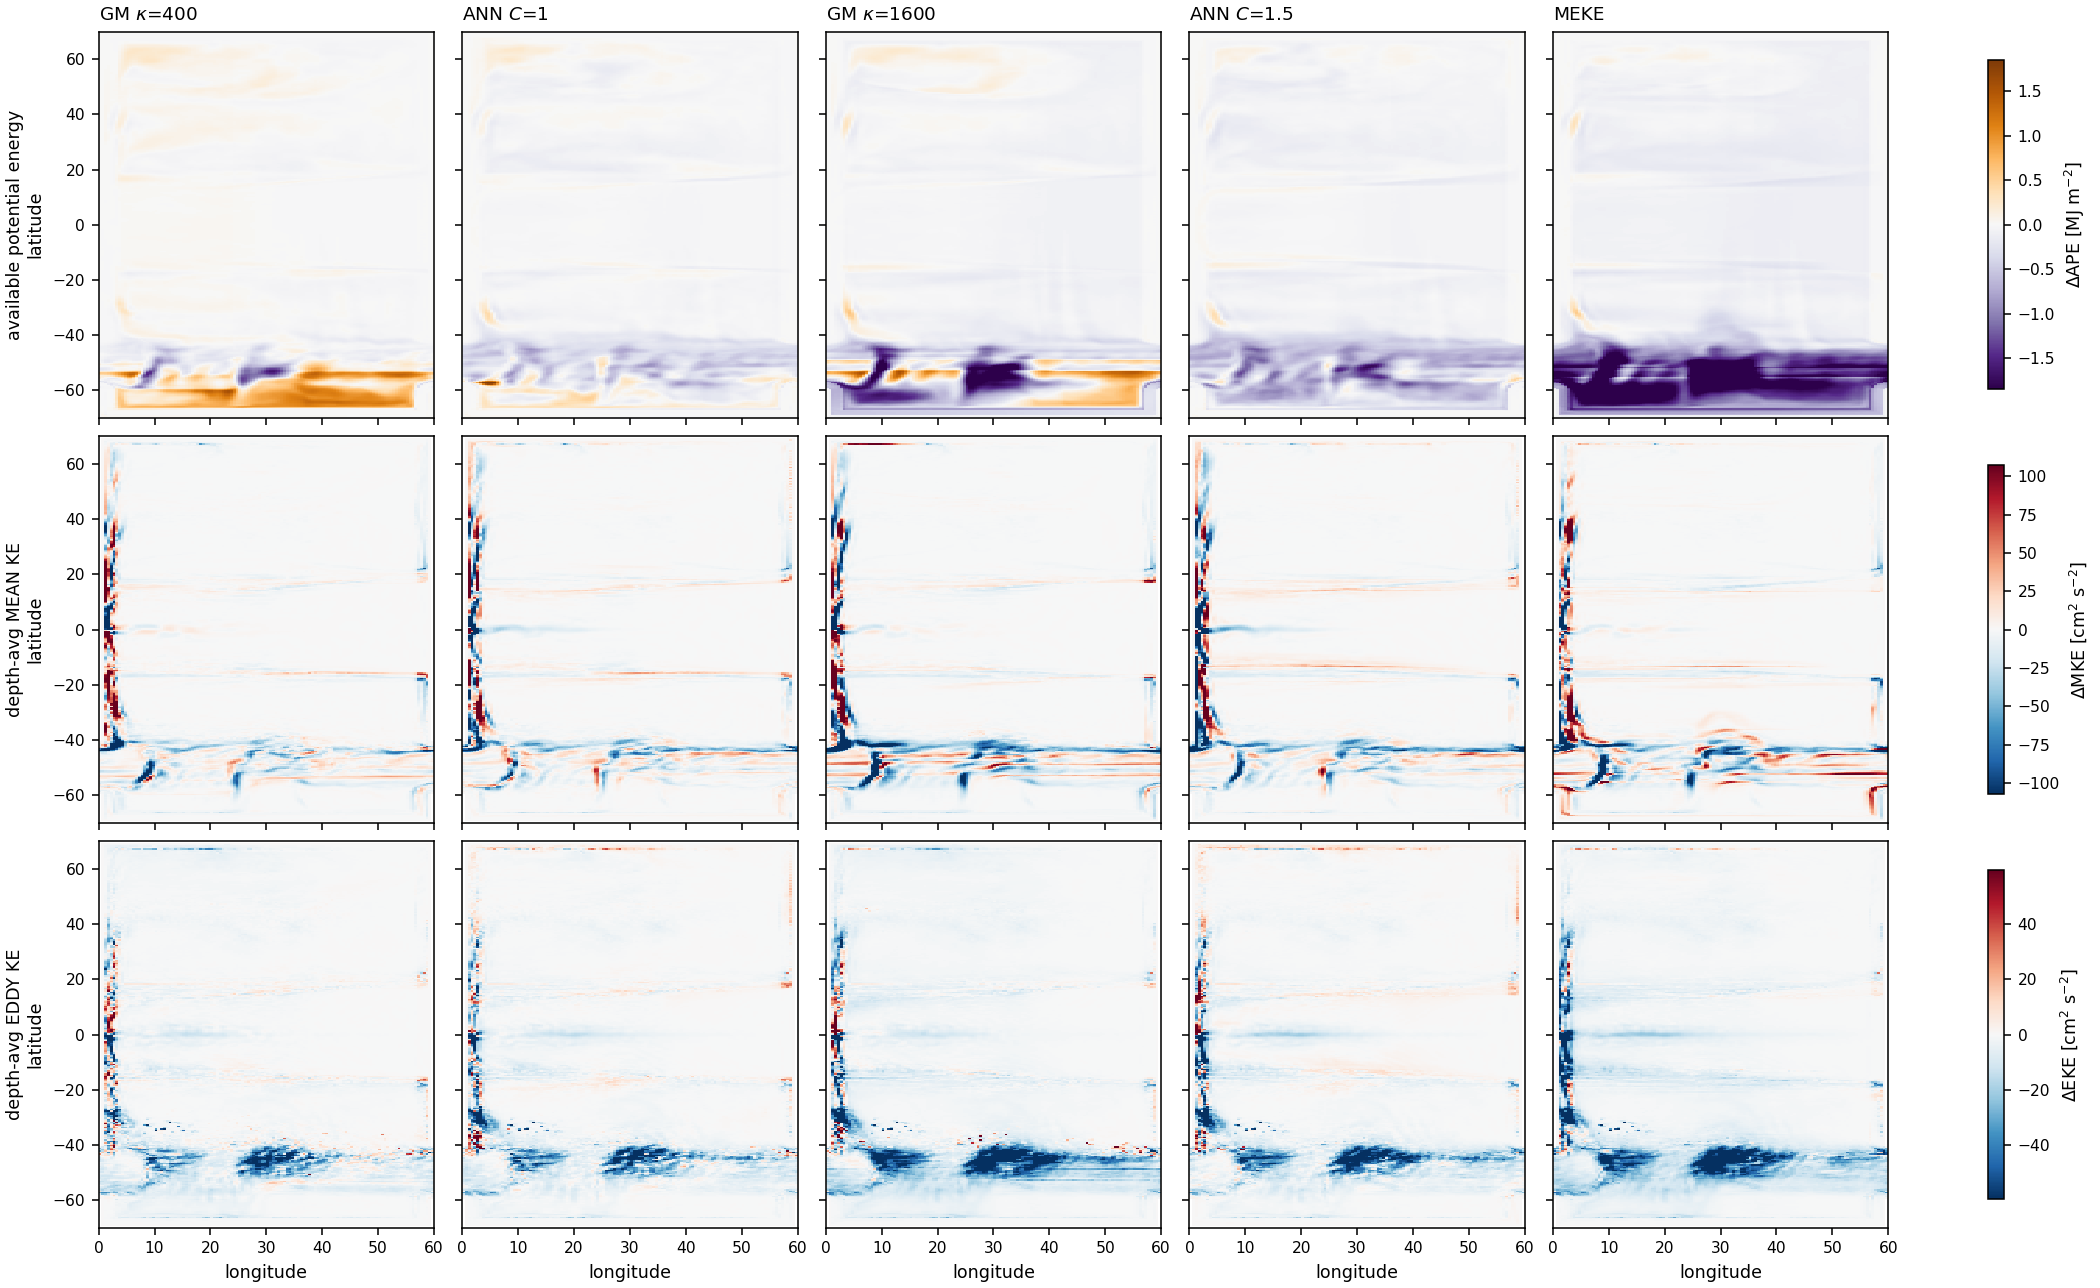
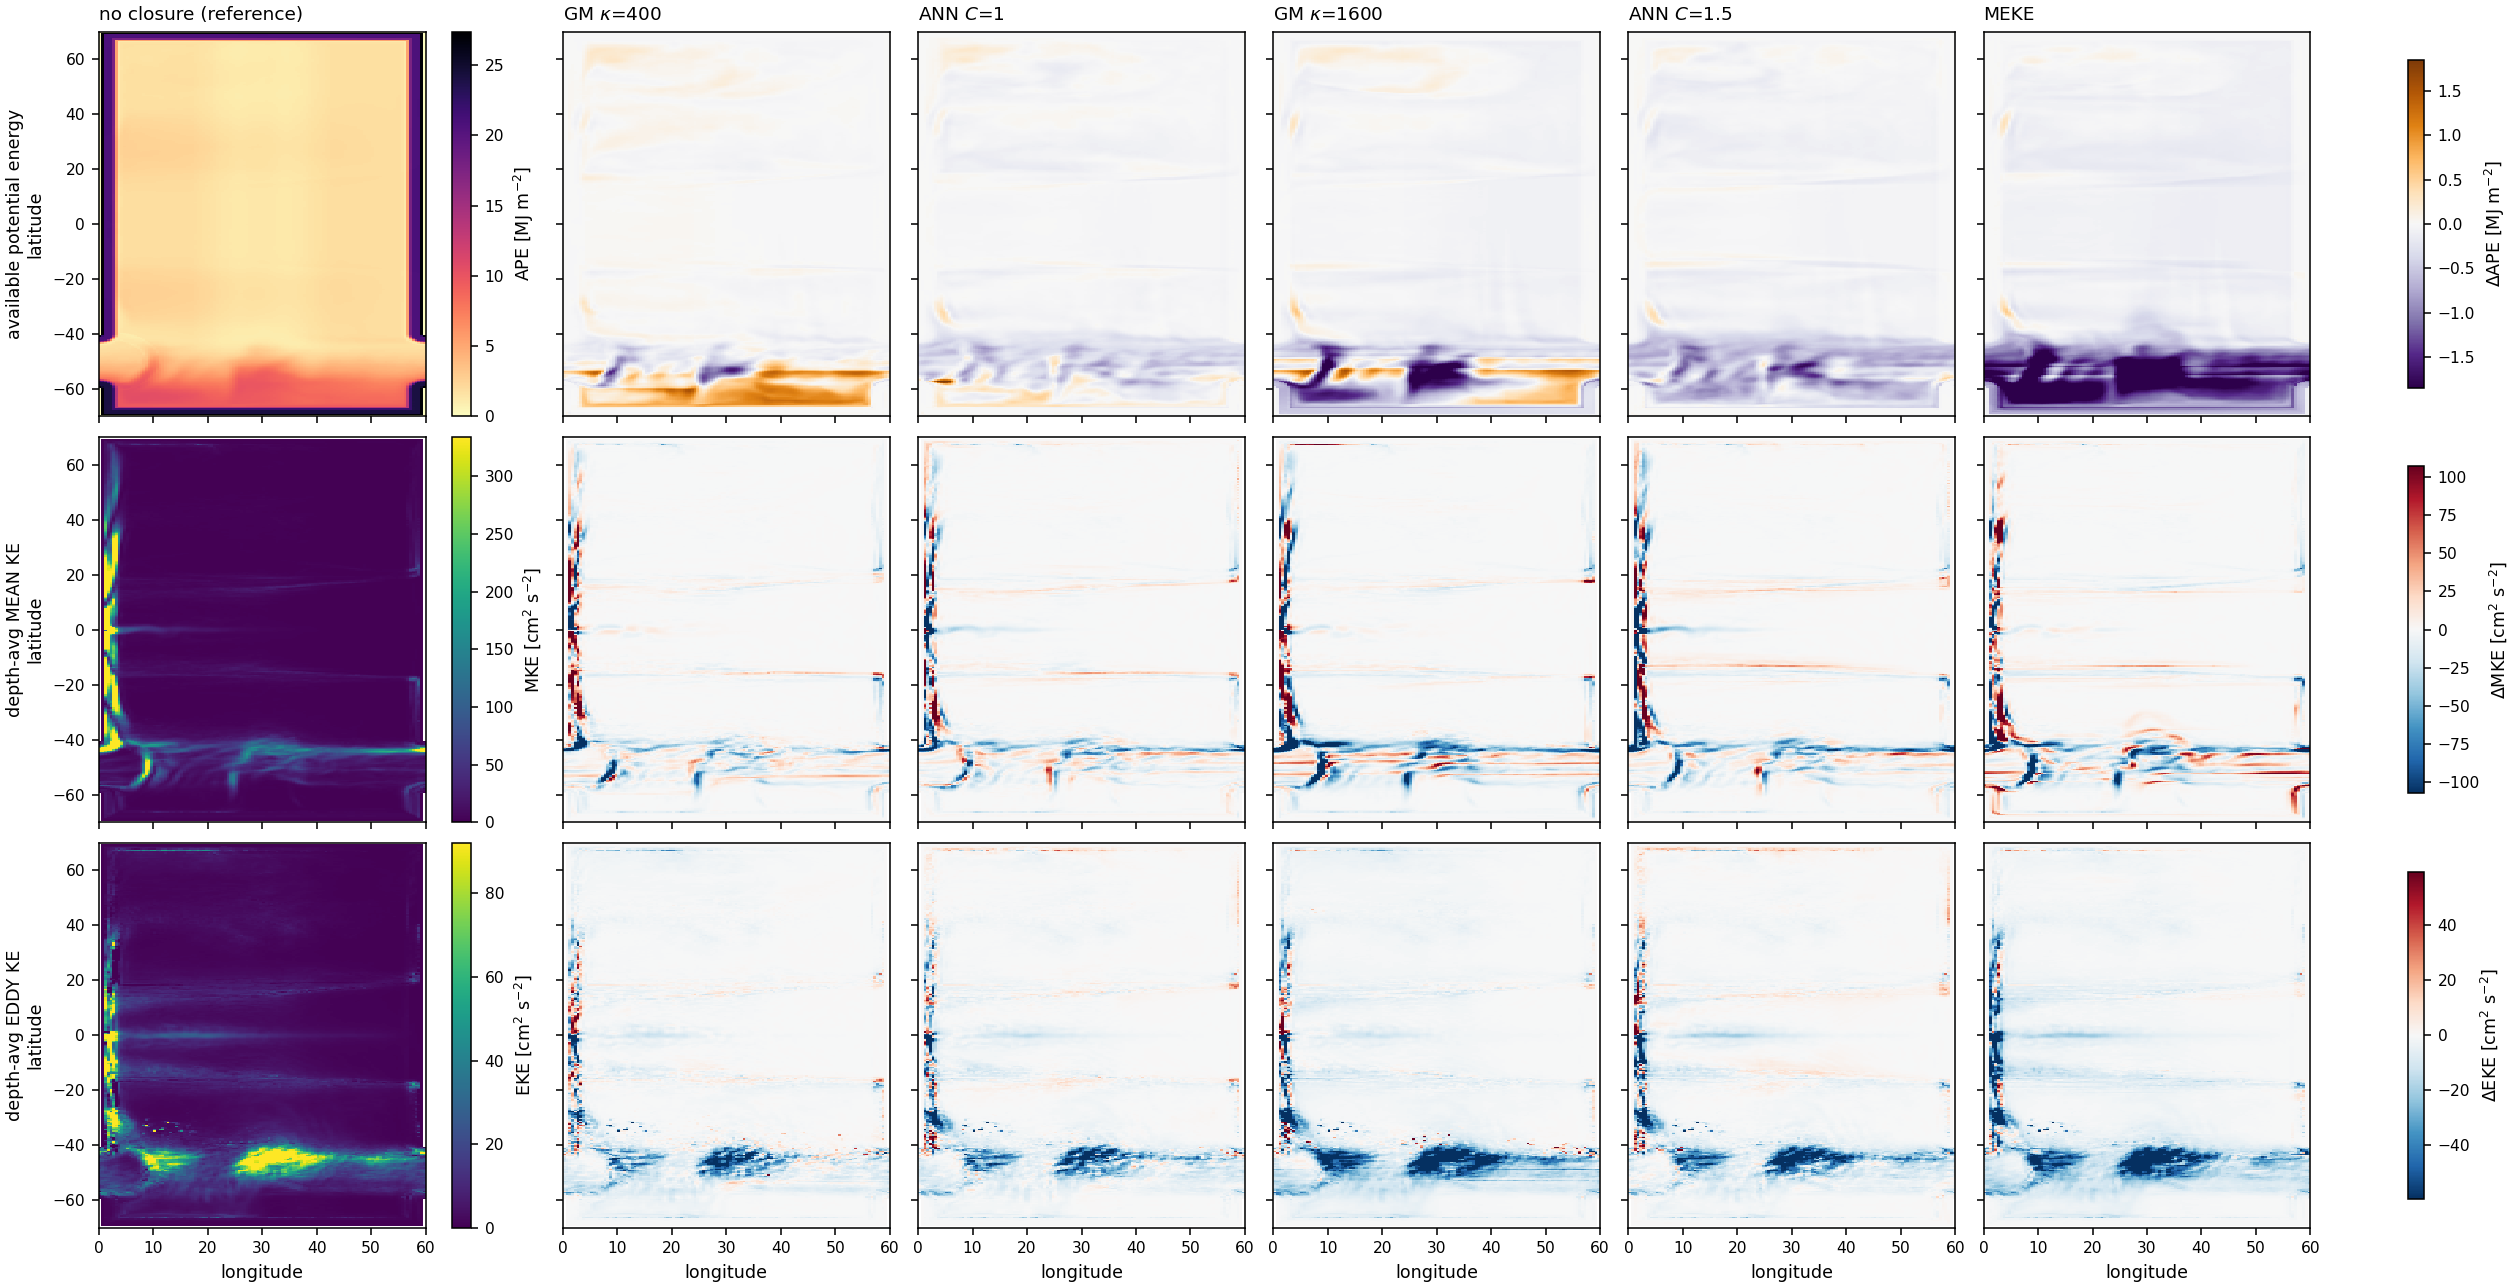
NW2 energy maps: add the unparameterized reference column so the differences have magnitude context
Column 0 now shows the control's absolute APE, MKE and EKE on sequential scales (differences stay
diverging). Puts the response in proportion: APE background ~5-25 MJ/m2 against changes of ~1-2, so
even MEKE moves only a few percent of the reservoir; EKE background peaks near 90 cm2/s2 in the
channel band against changes of ~50, i.e. the eddy response is a much larger fractional effect than
the APE response. Also shows the western-boundary MKE stripe is a real feature of the control, not
an artefact of differencing.

Claude-Session: https://claude.ai/code/session_013YxY5kSiCrM21jUwV4Z6dE

diff --git a/src/training-on-CM2.6/scripts/nw2_ape_ke_maps.py b/src/training-on-CM2.6/scripts/nw2_ape_ke_maps.py
@@ -68,20 +68,31 @@ for r, lab in ORDER:
 
 plt.rcParams.update({"font.size": 9, "axes.titlesize": 9.5, "axes.labelsize": 9,
                      "xtick.labelsize": 8, "ytick.labelsize": 8})
-n = len(ORDER)
+n = len(ORDER) + 1                       # column 0 = the unparameterized reference state
 fig, ax = plt.subplots(3, n, figsize=(3.0*n, 9.2), sharex=True, sharey=True, constrained_layout=True)
+
+# --- column 0: control absolute fields (sequential scales -- these are magnitudes, not anomalies)
+for i, (fld, cm, lb, sc) in enumerate([(A0/1e6, "magma_r", "APE [MJ m$^{-2}$]", 1),
+                                       (M0*1e4, "viridis", "MKE [cm$^2$ s$^{-2}$]", 1),
+                                       (E0*1e4, "viridis", "EKE [cm$^2$ s$^{-2}$]", 1)]):
+    hi = np.nanpercentile(fld, 99)
+    p = ax[i, 0].pcolormesh(lon, lat, fld, cmap=cm, vmin=0, vmax=hi, shading="auto", rasterized=True)
+    plt.colorbar(p, ax=ax[i, 0], label=lb)
+ax[0, 0].set_title("no closure (reference)", loc="left")
+
 va = np.nanpercentile(np.abs(np.stack([res[r][0] for r,_ in ORDER])), 99) / 1e6
 vm = np.nanpercentile(np.abs(np.stack([res[r][1] for r,_ in ORDER])), 99) * 1e4
 ve = np.nanpercentile(np.abs(np.stack([res[r][2] for r,_ in ORDER])), 99) * 1e4
-for j, (r, lab) in enumerate(ORDER):
+for j, (r, lab) in enumerate(ORDER, start=1):
     da, dm, de = res[r]
     q0 = ax[0, j].pcolormesh(lon, lat, da/1e6, cmap="PuOr_r", vmin=-va, vmax=va, shading="auto", rasterized=True)
     q1 = ax[1, j].pcolormesh(lon, lat, dm*1e4, cmap="RdBu_r", vmin=-vm, vmax=vm, shading="auto", rasterized=True)
     q2 = ax[2, j].pcolormesh(lon, lat, de*1e4, cmap="RdBu_r", vmin=-ve, vmax=ve, shading="auto", rasterized=True)
-    ax[0, j].set_title(lab, loc="left"); ax[2, j].set_xlabel("longitude")
-fig.colorbar(q0, ax=ax[0, :], shrink=0.85, label="$\\Delta$APE [MJ m$^{-2}$]")
-fig.colorbar(q1, ax=ax[1, :], shrink=0.85, label="$\\Delta$MKE [cm$^2$ s$^{-2}$]")
-fig.colorbar(q2, ax=ax[2, :], shrink=0.85, label="$\\Delta$EKE [cm$^2$ s$^{-2}$]")
+    ax[0, j].set_title(lab, loc="left")
+for a in ax[2]: a.set_xlabel("longitude")
+fig.colorbar(q0, ax=ax[0, 1:], shrink=0.85, label="$\\Delta$APE [MJ m$^{-2}$]")
+fig.colorbar(q1, ax=ax[1, 1:], shrink=0.85, label="$\\Delta$MKE [cm$^2$ s$^{-2}$]")
+fig.colorbar(q2, ax=ax[2, 1:], shrink=0.85, label="$\\Delta$EKE [cm$^2$ s$^{-2}$]")
 for a, t in zip(ax[:, 0], ["available potential energy", "depth-avg MEAN KE", "depth-avg EDDY KE"]):
     a.set_ylabel(f"{t}\nlatitude")
 png = "/home/db194/ANN-momentum-buoyancy-mesoscale/src/training-on-CM2.6/scripts/nw2_ape_ke_maps.png"
